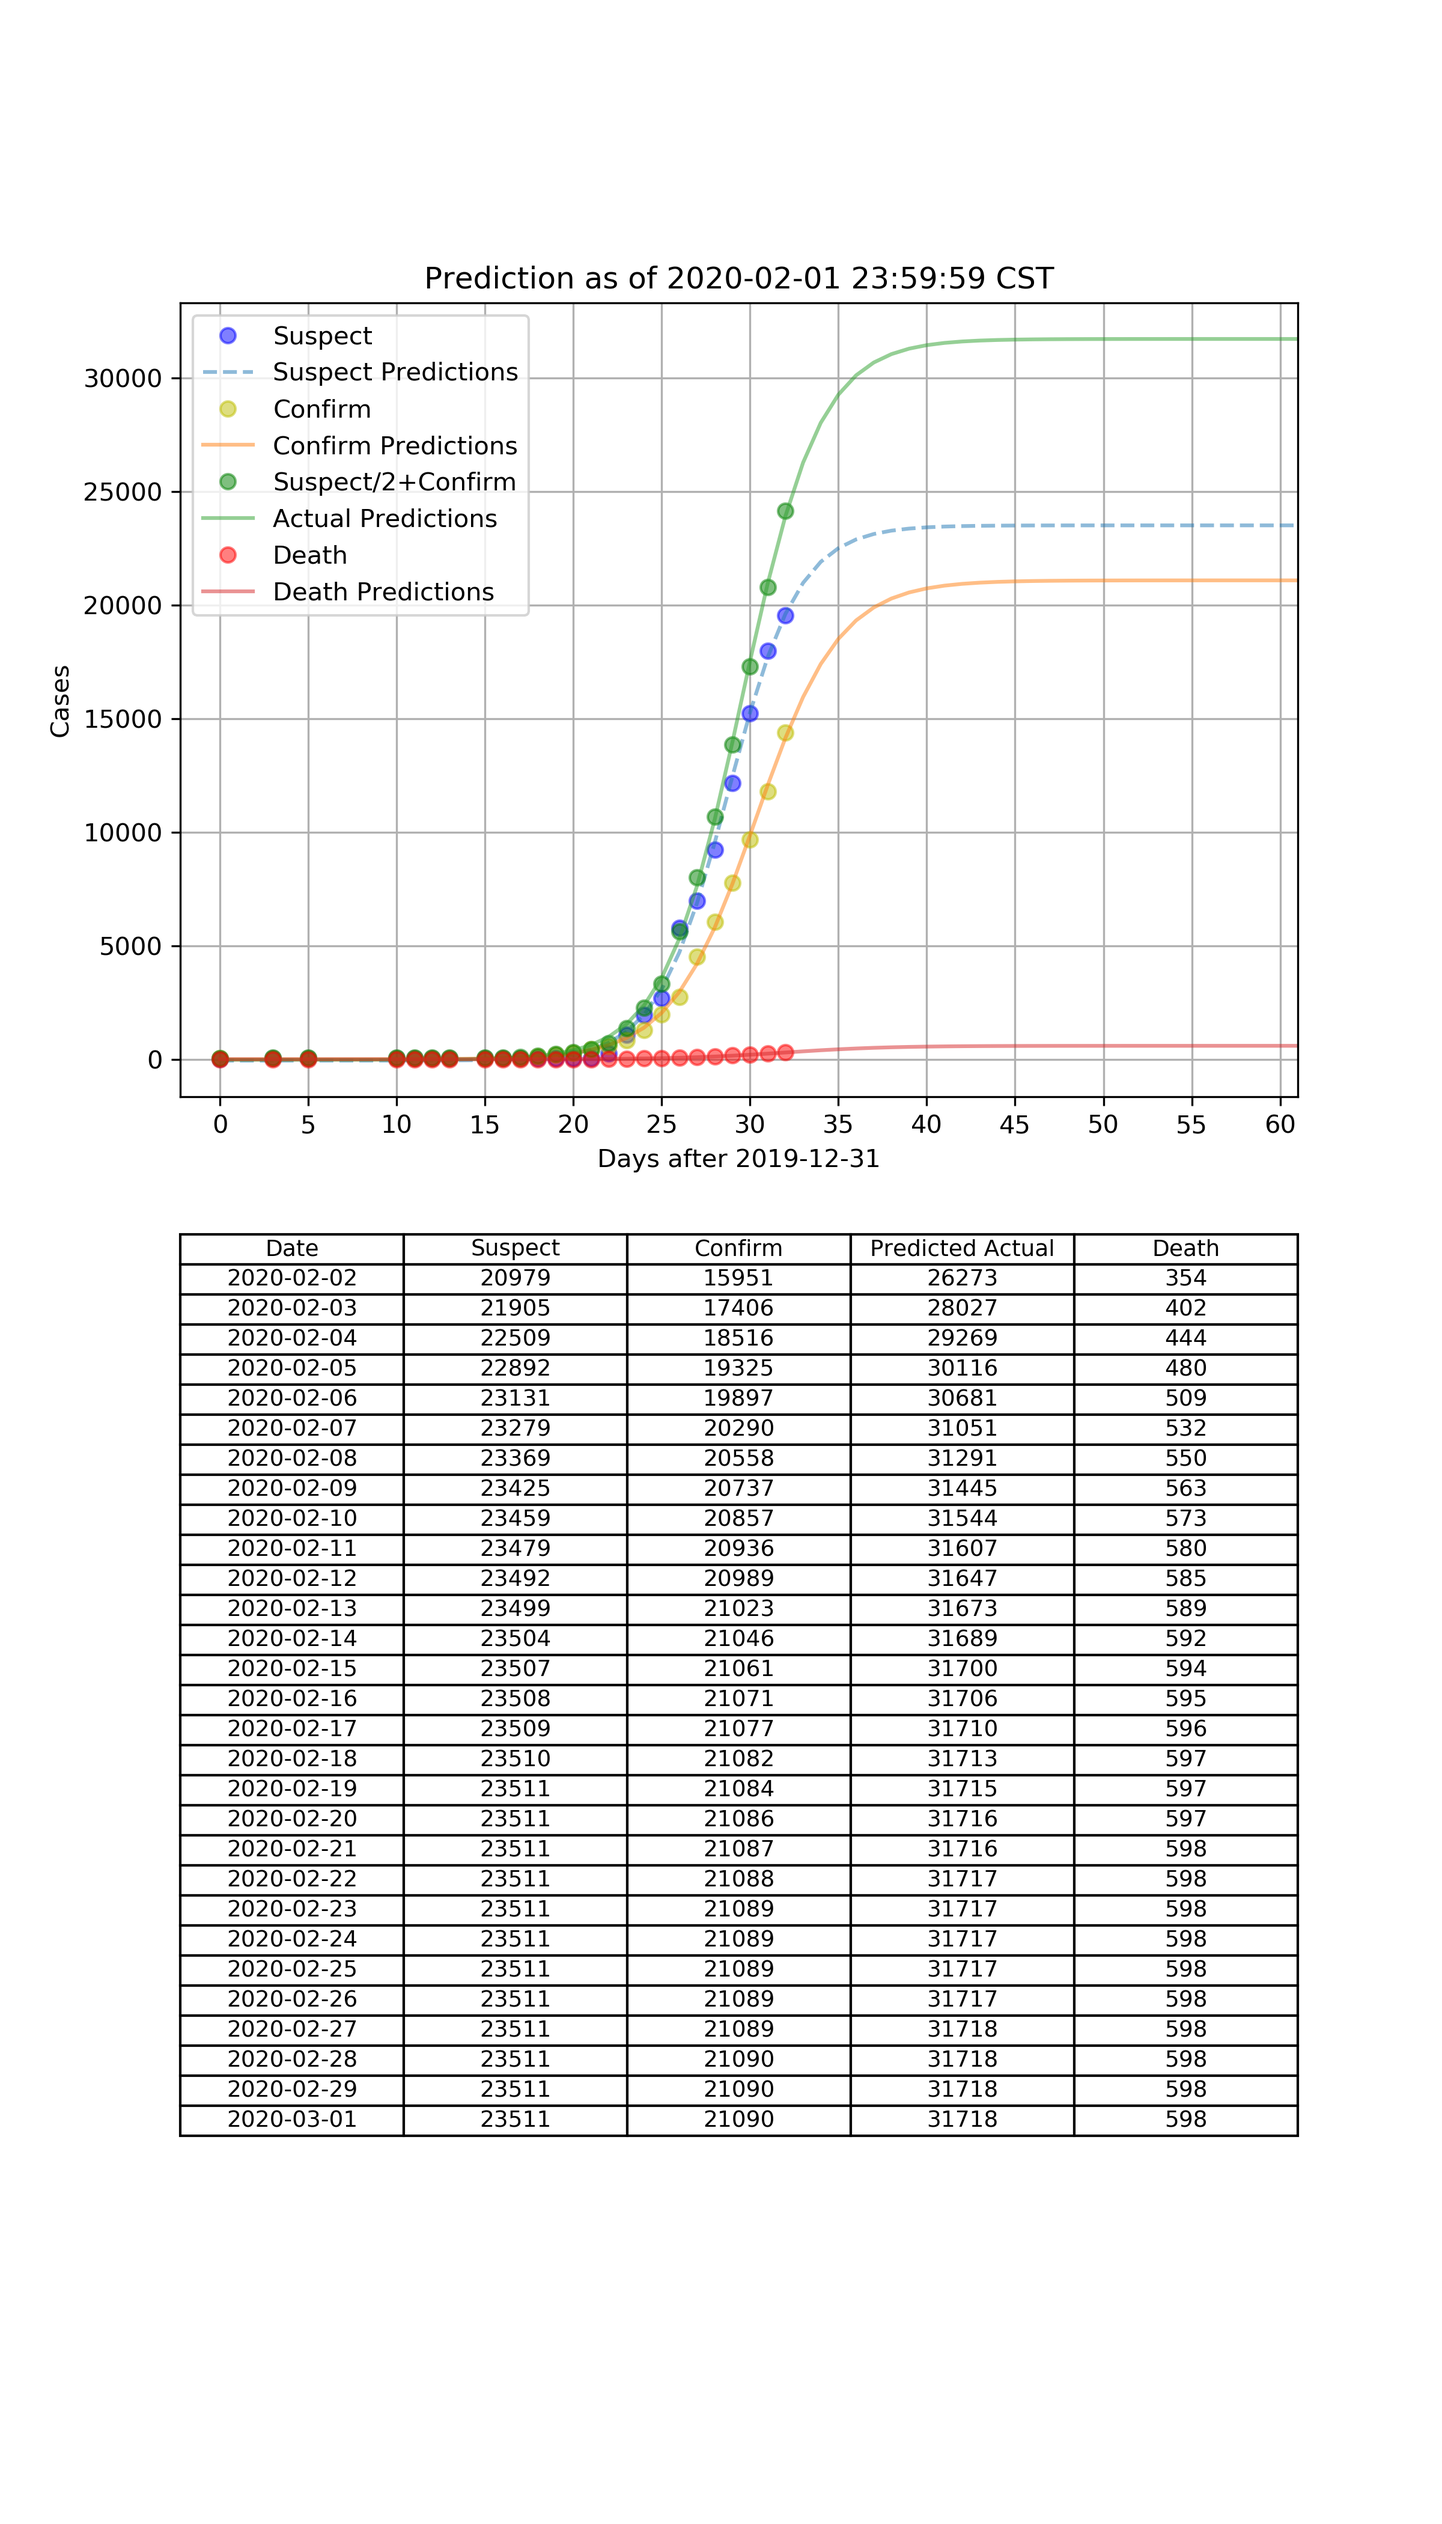
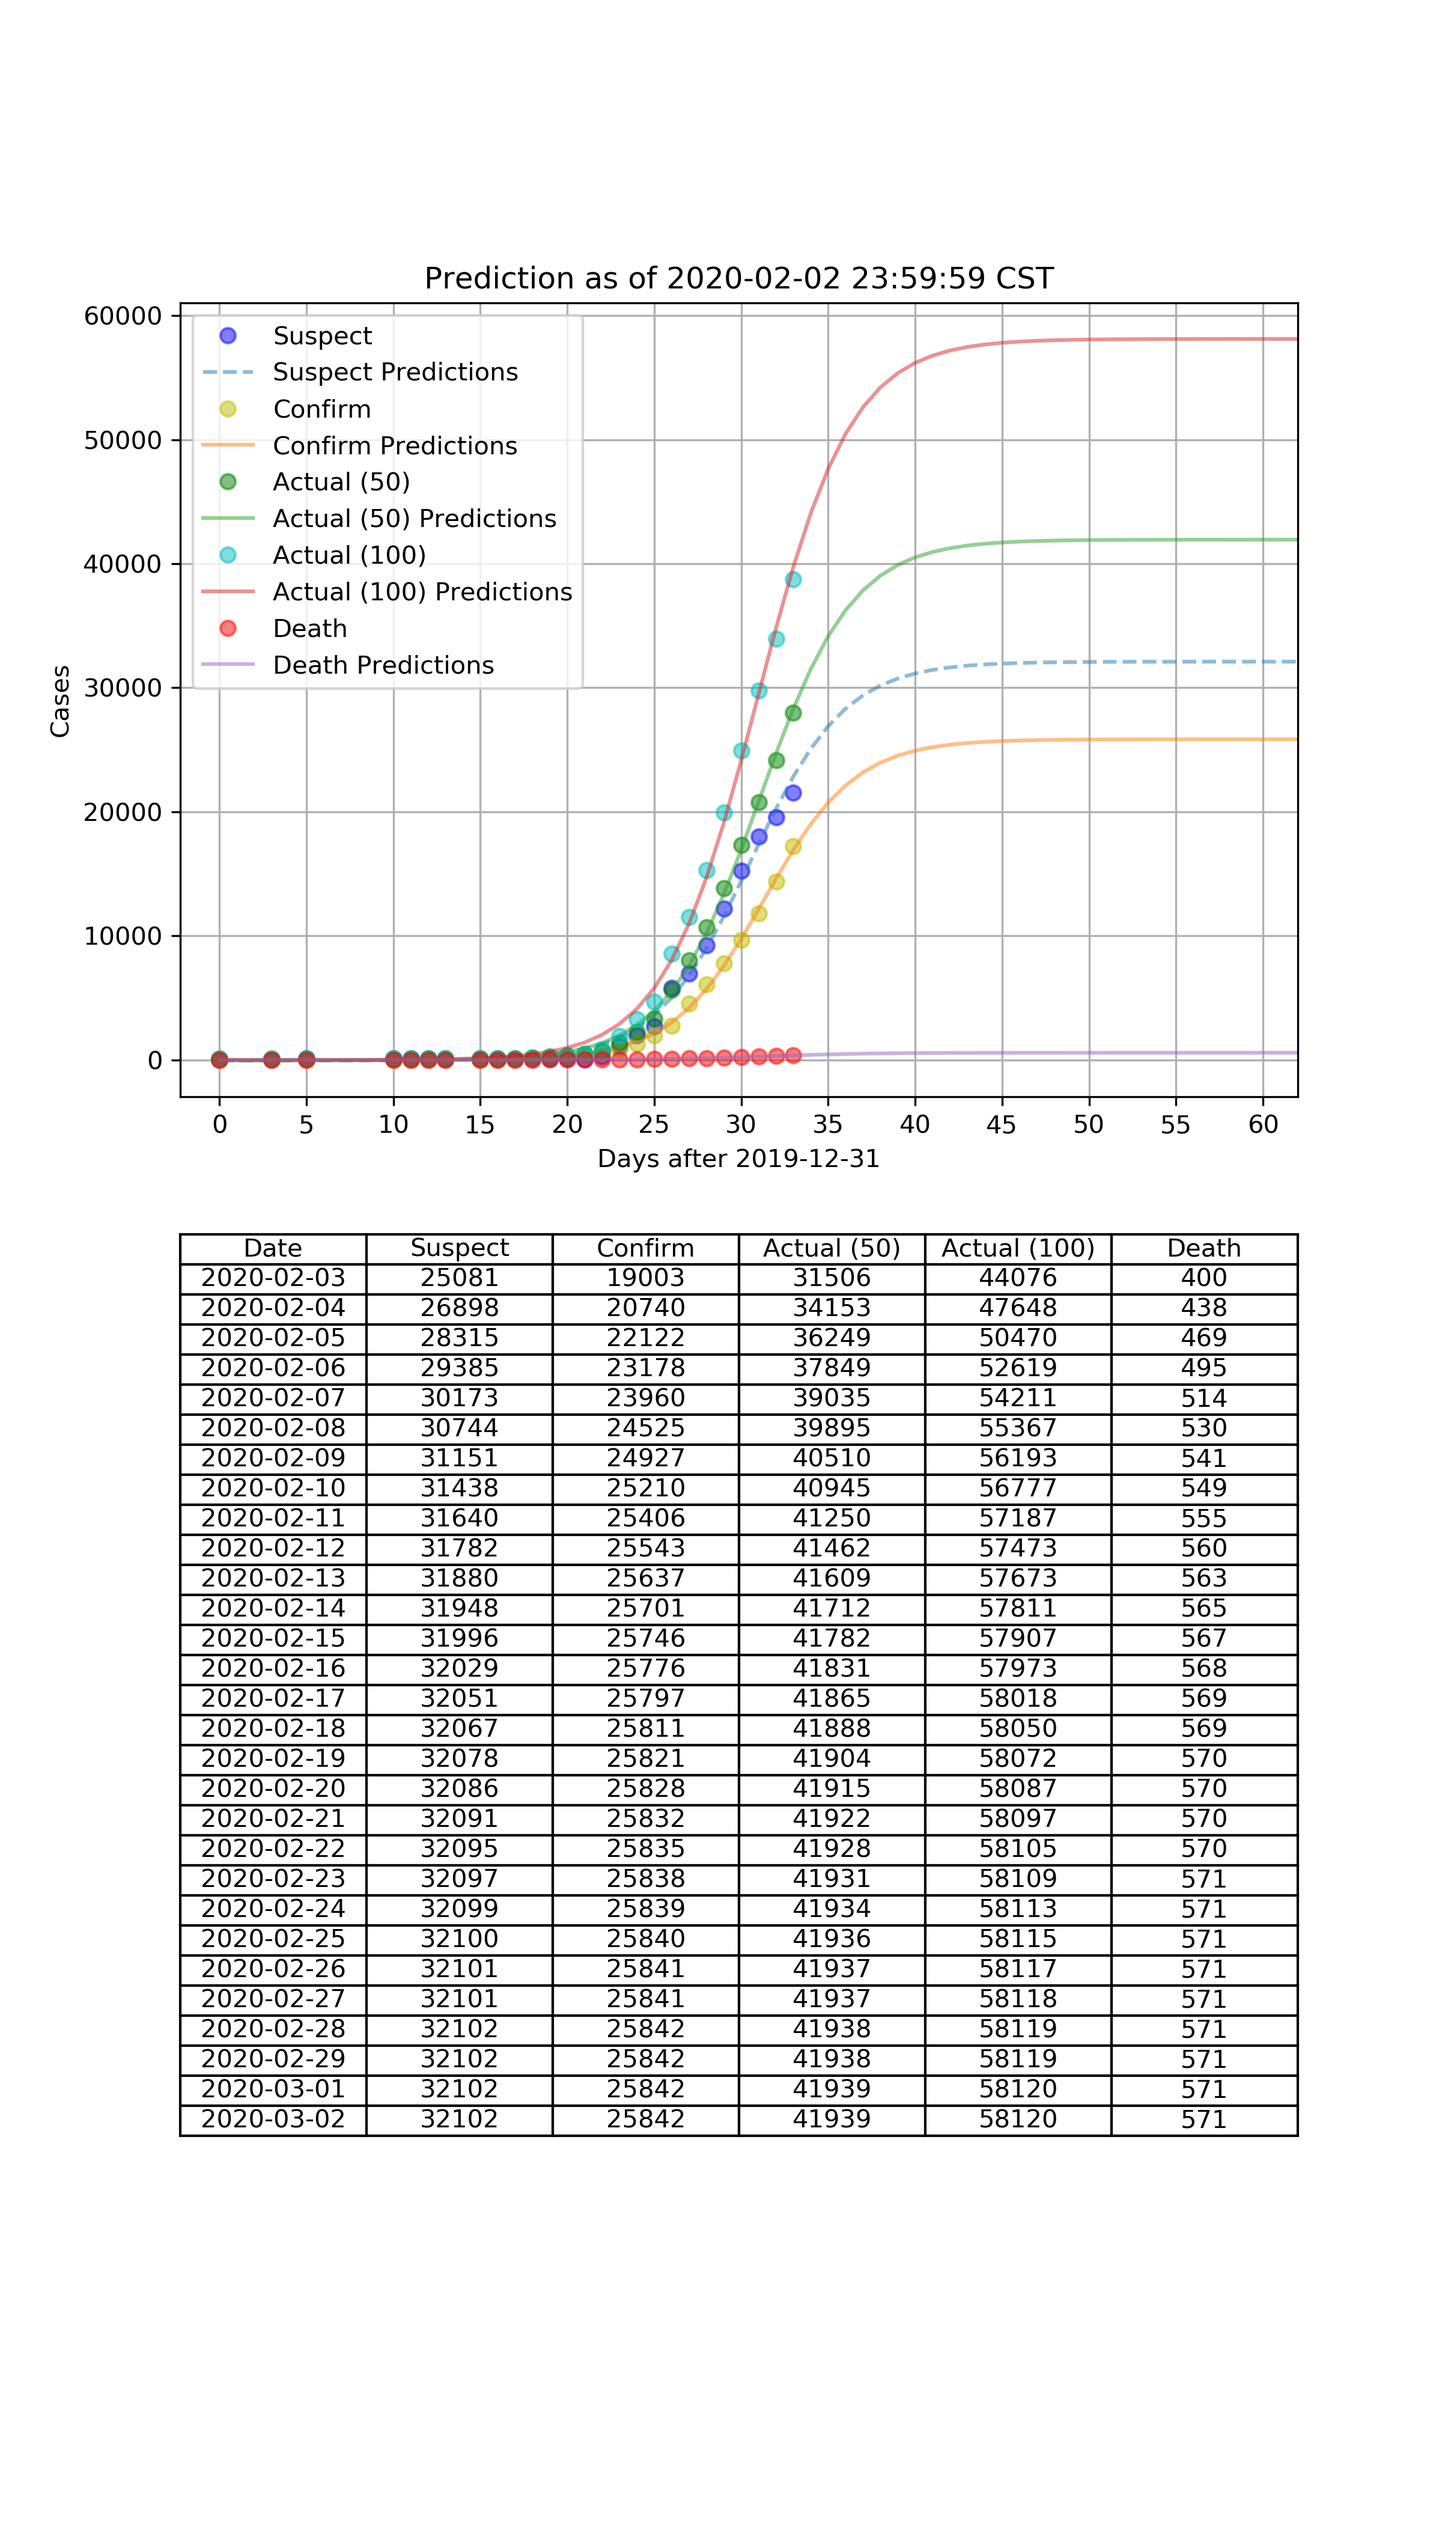
update 2020-02-02

diff --git a/2019_nCoV.py b/2019_nCoV.py
@@ -41,7 +41,7 @@ class SigmoidRegression(torch.nn.Module):
         return (torch.sigmoid((x - ones * self.x0) * self.k) * self.a + ones * self.b).squeeze()
 
 
-learningRate = 0.001
+# learningRate = 0.0003
 epochs = 1000000
 
 
@@ -49,7 +49,8 @@ def trainModel(model, X, y):
     model.to(device)
 
     # criterion = torch.nn.MSELoss()
-    optimizer = torch.optim.SGD(model.parameters(), lr=learningRate)
+    # optimizer = torch.optim.SGD(model.parameters(), lr=learningRate)
+    optimizer = torch.optim.Adam(model.parameters())
 
     last_loss = 0
     early_terminate_counter = 0
@@ -65,7 +66,7 @@ def trainModel(model, X, y):
 
         # get loss for the predicted output
         # loss = criterion(outputs, labels)
-        loss = torch.mean((inputs ** 0.5) * ((outputs - labels) ** 2))
+        loss = torch.mean(inputs * ((outputs - labels) ** 2))
         # print(loss)
         # get gradients w.r.t to parameters
         loss.backward()
@@ -76,34 +77,38 @@ def trainModel(model, X, y):
         # update parameters
         optimizer.step()
 
-        if epoch % 1000 == 0:
+        if epoch % 10000 == 0:
             print('epoch {}, loss {}'.format(epoch, loss.item()))
 
-        if (last_loss - loss) ** 2 < 1e-3:
+        if loss >= last_loss:
             early_terminate_counter += 1
         else:
             early_terminate_counter = 0
 
-        if early_terminate_counter >= 100:
+        if early_terminate_counter >= 100000:
             print('[early terminate] epoch {}, loss {}'.format(epoch, loss.item()))
             break
 
-        last_loss = loss
+        if last_loss > loss:
+            last_loss = loss
 
 
-sModel = SigmoidRegression(Ys[0][-1], 27, 1, today_days + 1)
-cModel = SigmoidRegression(Ys[1][-1], 41, 1, today_days + 1)
-scModel = SigmoidRegression((Ys[0] / 2 + Ys[1])[-1], 55, 1, today_days + 1)
-dModel = SigmoidRegression(Ys[2][-1], 0, 0.4, today_days + 1)
+sModel = SigmoidRegression(Ys[0][-1] * 1.5, 27, 1, today_days + 1)
+cModel = SigmoidRegression(Ys[1][-1] * 1.5, 41, 1, today_days + 1)
+scModel = SigmoidRegression((Ys[0] / 2 + Ys[1])[-1] * 1.5, 55, 1, today_days + 1)
+sc100Model = SigmoidRegression((Ys[0] + Ys[1])[-1] * 1.5, 68, 1, today_days + 1)
+dModel = SigmoidRegression(Ys[2][-1] * 1.5, 0, 0.4, today_days + 1)
 
 trainModel(sModel, X, np.array(Ys[0], dtype=np.float32))
 trainModel(cModel, X, np.array(Ys[1], dtype=np.float32))
 trainModel(scModel, X, np.array(Ys[0] / 2 + Ys[1], dtype=np.float32))
+trainModel(sc100Model, X, np.array(Ys[0] + Ys[1], dtype=np.float32))
 trainModel(dModel, X, np.array(Ys[2], dtype=np.float32))
 
 spredicted = []
 cpredicted = []
 scP = []
+sc100P = []
 dP = []
 
 with torch.no_grad():  # we don't need gradients in the testing
@@ -111,6 +116,7 @@ with torch.no_grad():  # we don't need gradients in the testing
         spredicted.append(sModel(torch.from_numpy(np.array([i])).to(device)).cpu().data.numpy().item())
         cpredicted.append(cModel(torch.from_numpy(np.array([i])).to(device)).cpu().data.numpy().item())
         scP.append(scModel(torch.from_numpy(np.array([i])).to(device)).cpu().data.numpy().item())
+        sc100P.append(sc100Model(torch.from_numpy(np.array([i])).to(device)).cpu().data.numpy().item())
         dP.append(dModel(torch.from_numpy(np.array([i])).to(device)).cpu().data.numpy().item())
 
 
@@ -125,7 +131,7 @@ def graph():
 
     axs[0].title.set_text('Prediction as of {} CST'.format(str(today_date + timedelta(hours=23, minutes=59, seconds=59))))
 
-    collabel = ("Date", "Suspect", "Confirm", "Predicted Actual", "Death")
+    collabel = ("Date", "Suspect", "Confirm", "Actual (50)", "Actual (100)", "Death")
     axs[1].axis('tight')
     axs[1].axis('off')
     the_table = axs[1].table(
@@ -133,6 +139,7 @@ def graph():
                            np.round(spredicted).astype(int),
                            np.round(cpredicted).astype(int),
                            np.round(scP).astype(int),
+                           np.round(sc100P).astype(int),
                            np.round(dP).astype(int)], dtype=str).transpose()
         [today_days + 1: today_days + 31],
         colLabels=collabel,
@@ -148,8 +155,11 @@ def graph():
     axs[0].plot(X, Ys[1], 'yo', label='Confirm', alpha=0.5)
     axs[0].plot(np.arange(today_days + 30), cpredicted, '-', label='Confirm Predictions', alpha=0.5)
 
-    axs[0].plot(X, Ys[0] / 2 + Ys[1], 'go', label='Suspect/2+Confirm', alpha=0.5)
-    axs[0].plot(np.arange(today_days + 30), scP, '-', label='Actual Predictions', alpha=0.5)
+    axs[0].plot(X, Ys[0] / 2 + Ys[1], 'go', label='Actual (50)', alpha=0.5)
+    axs[0].plot(np.arange(today_days + 30), scP, '-', label='Actual (50) Predictions', alpha=0.5)
+
+    axs[0].plot(X, Ys[0] + Ys[1], 'co', label='Actual (100)', alpha=0.5)
+    axs[0].plot(np.arange(today_days + 30), sc100P, '-', label='Actual (100) Predictions', alpha=0.5)
 
     axs[0].plot(X, Ys[2], 'ro', label='Death', alpha=0.5)
     axs[0].plot(np.arange(today_days + 30), dP, '-', label='Death Predictions', alpha=0.5)

diff --git a/2019_nCoV_SIR.py b/2019_nCoV_SIR.py
@@ -20,15 +20,15 @@ Y_frame = info_frame.drop(['Date CST'], axis=1)
 Ys = Y_frame.to_numpy().transpose()
 
 # Total population, N.
-N = 30000000
+N = 40000000
 # Initial number of infected and recovered individuals, I0 and R0.
-I0, R0 = 1, 0
+I0, R0 = 55, 0
 # Everyone else, S0, is susceptible to infection initially.
 S0 = N - I0 - R0
 # Contact rate, beta, and mean recovery rate, gamma, (in 1/days).
-beta, gamma = 0.59, 3.5e-3
+beta, gamma = 0.44, 3.5e-3
 # A grid of time points (in days)
-t = np.linspace(0, 160, 160)
+t = np.linspace(0, 365, 365)
 
 
 # The SIR model differential equations.
@@ -59,14 +59,13 @@ def graph():
     axs[0].set_xlabel('Days after 2019-12-31')
     axs[0].set_ylabel('Cases')
 
-    axs[0].plot(X, Ys[0] / 2 + Ys[1], 'bo', label='Suspect/2+Confirm', alpha=0.5)
+    axs[0].plot(X, Ys[0] / 2 + Ys[1], 'bo', label='Actual (50)', alpha=0.5)
     axs[0].plot(X, Ys[3], 'go', label='Recovered', alpha=0.5)
     axs[0].set_xlim(-2.25, today_days + 29)
     axs[0].set_xticks(np.arange(today_days + 30, step=5))
 
-    # axs[0].plot(t, S/1000, 'b', alpha=0.5, lw=2, label='Susceptible')
     axs[0].plot(t, I / 1000, 'r', alpha=0.5, lw=2, label='Infected')
-    axs[0].plot(t, R / 1000, 'g', alpha=0.5, lw=2, label='Recovered with immunity')
+    axs[0].plot(t, R / 1000, 'g', alpha=0.5, lw=2, label='Recovered (50)')
 
     axs[0].grid()
     axs[0].legend(loc='best')

diff --git a/README.MD b/README.MD
@@ -1,7 +1,7 @@
 # 2019-nCoV Prediction
 "We must remember that these are people, not numbers." -- WHO
 
-Using sigmoid function and SIR model. Assuming 50% of the suspects cases are actually infected.
+Using sigmoid function and SIR model. Actual (50) assumes 50% of the suspects cases are actually infected and Actual (100) assumes 100%.
 
 Data from: https://en.wikipedia.org/wiki/Timeline_of_the_2019%E2%80%9320_Wuhan_coronavirus_outbreak
 
